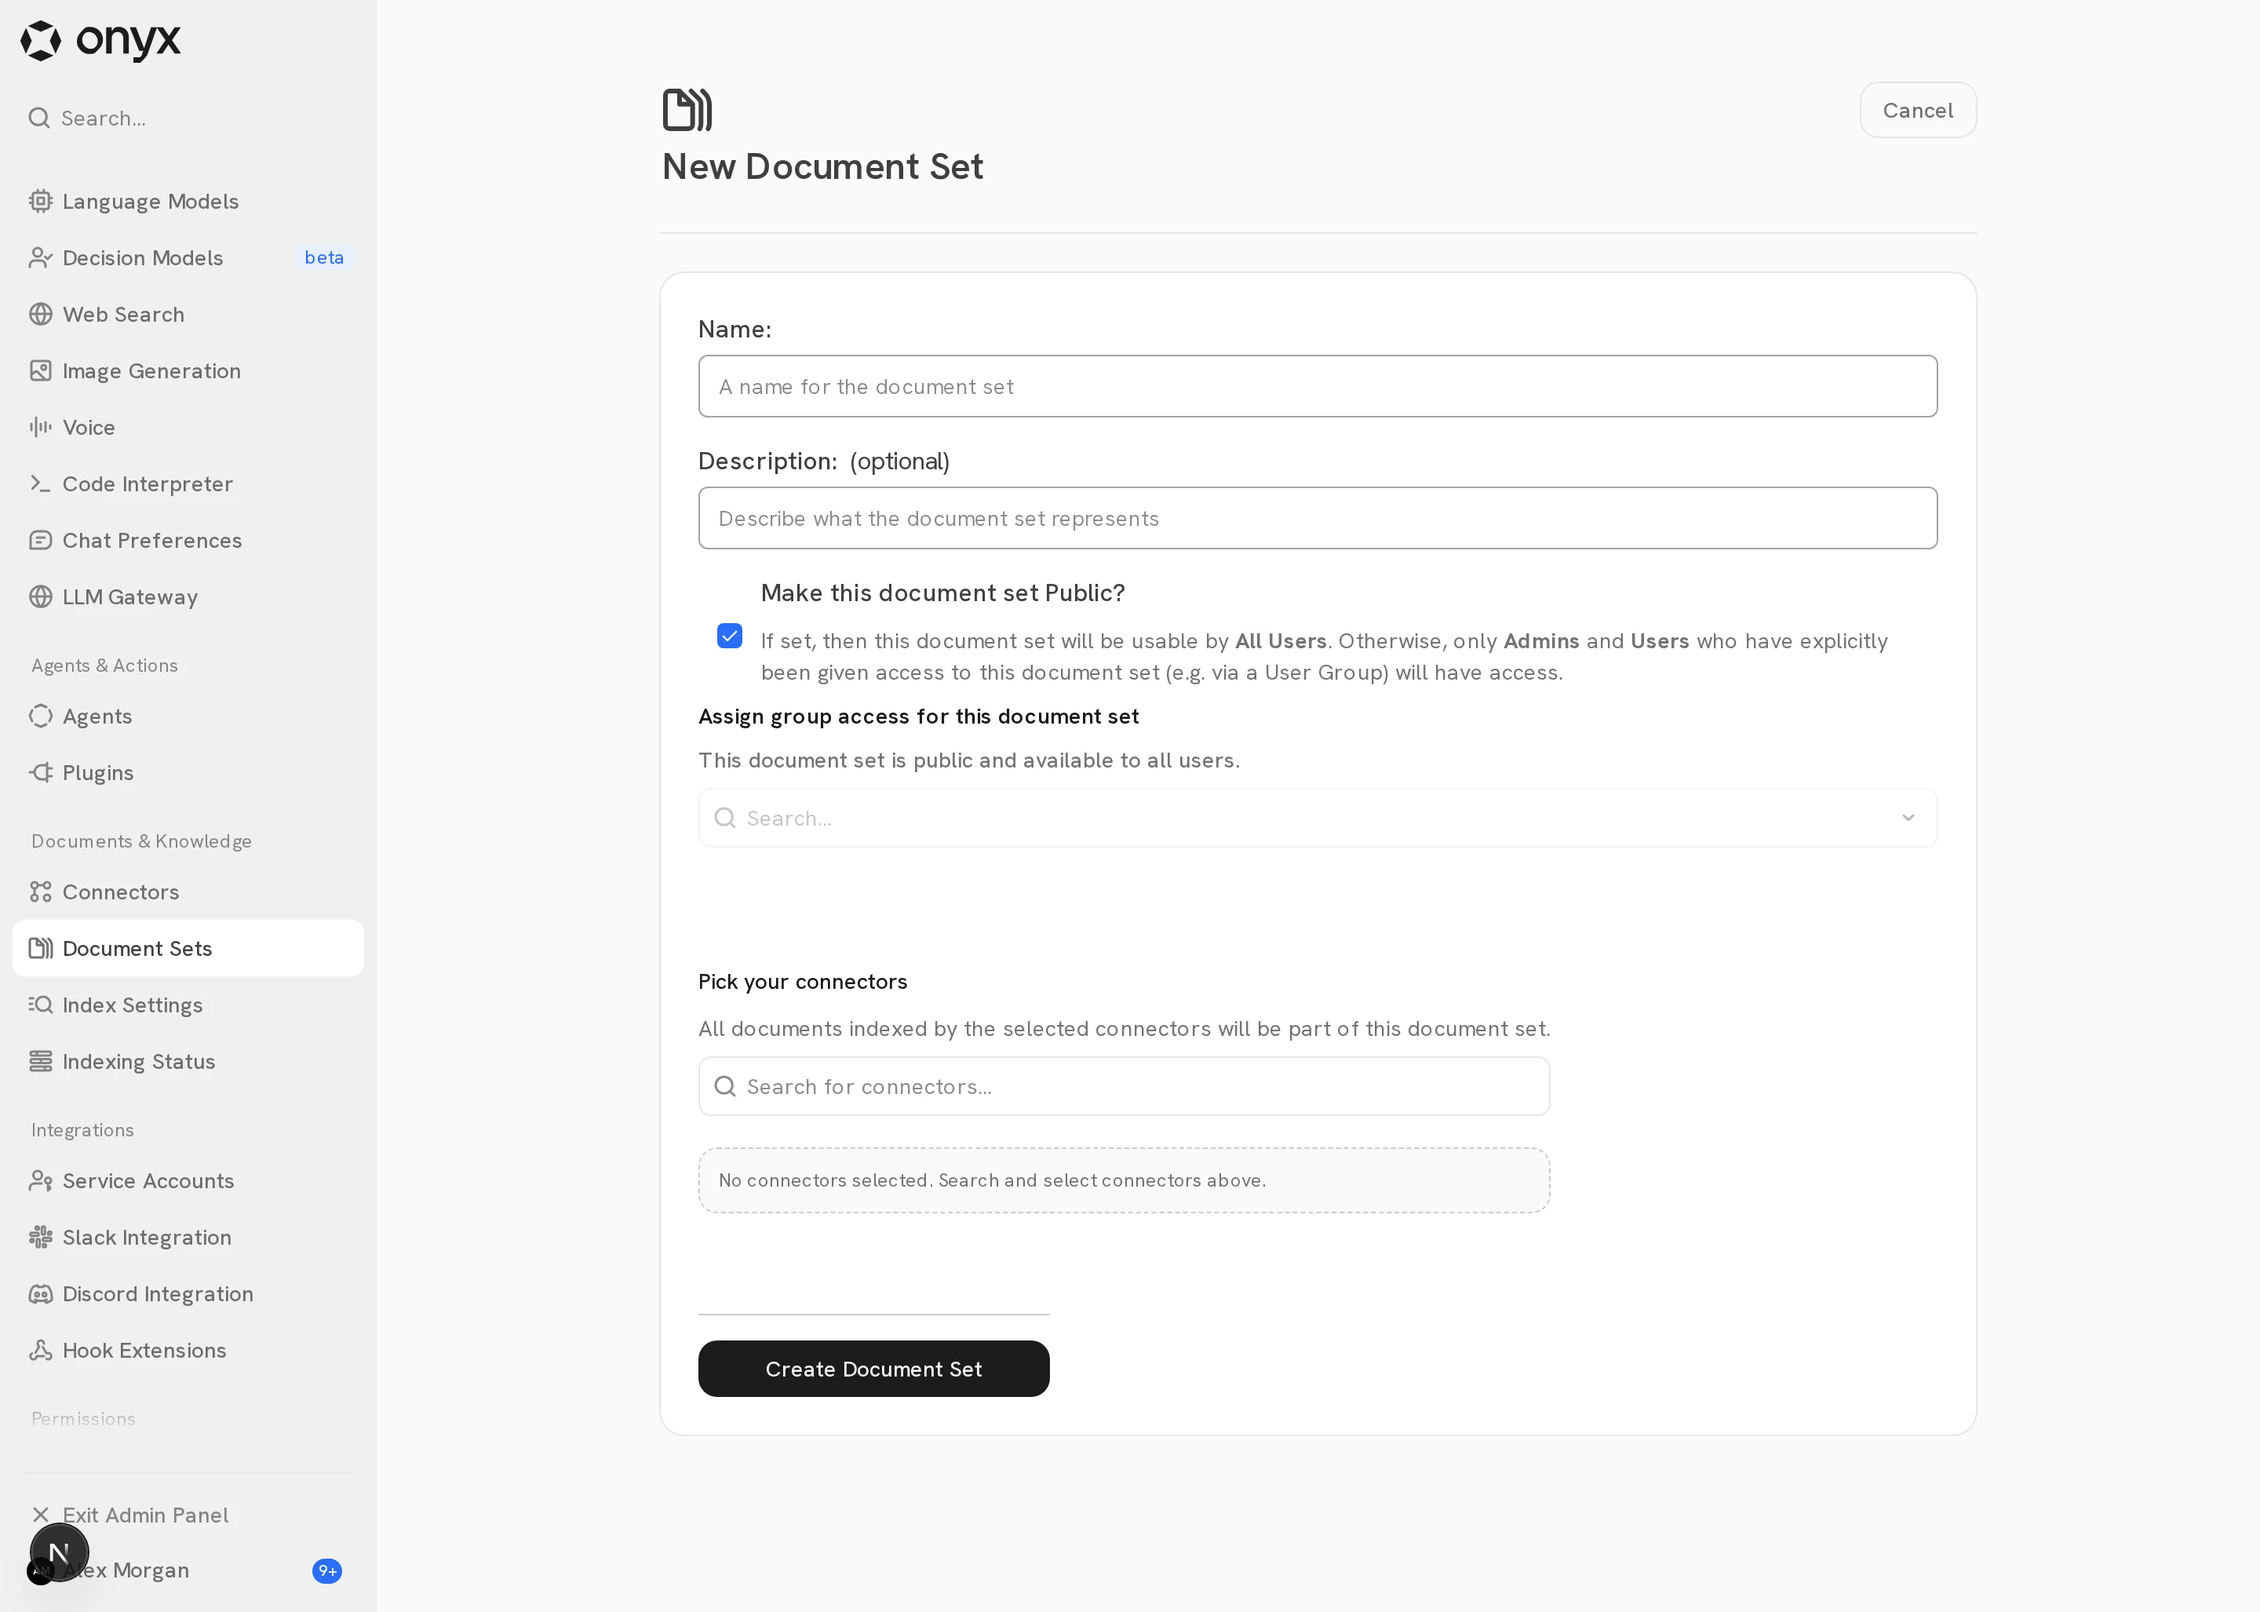
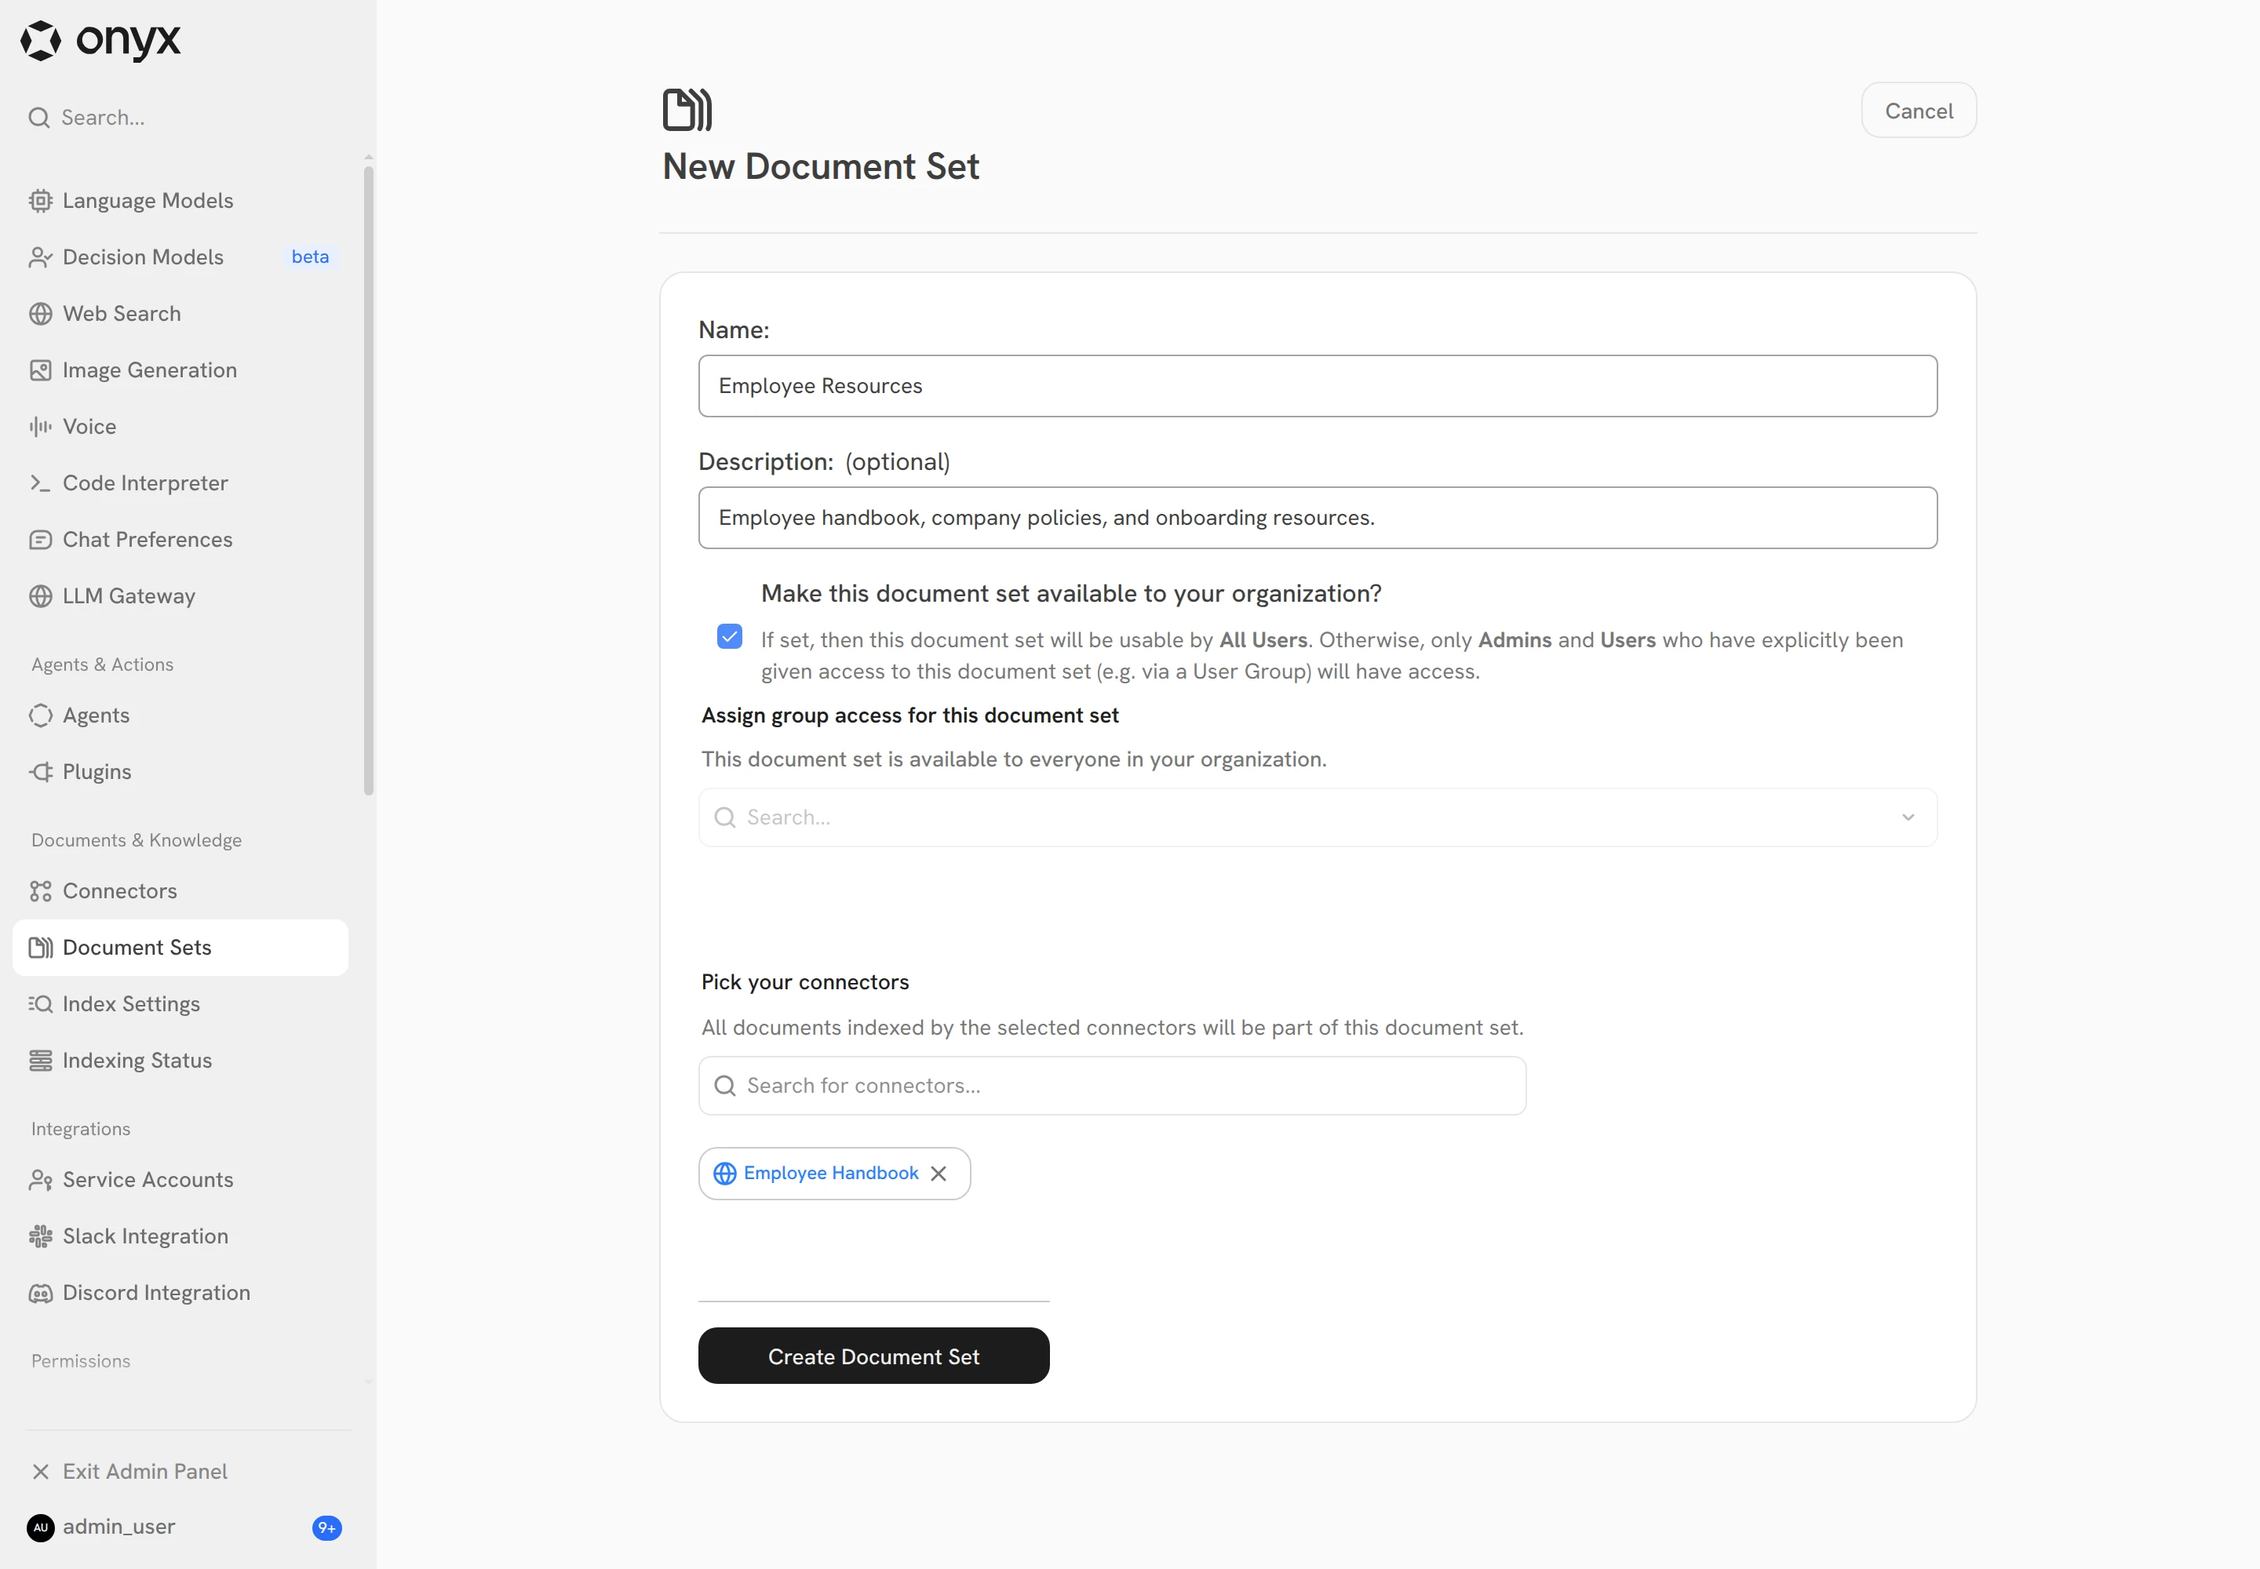
chore(web): say "organization" instead of "public" for org-wide access (#16964)
## Description

"Public" on access settings reads like "public to the internet". These
settings mean "everyone in this Onyx organization", as opposed to
selected user groups. This PR changes only the copy. API fields
(`is_public`, `access_type: public`) and i18n keys do not change.

| Surface | Before | After |
| --- | --- | --- |
| MCP access control option | Public | Organization |
| Document set / connector "Make public" toggle
(`IsPublicGroupSelector`) | Make this {objectName} Public? | Make this
{objectName} available to your organization? |
| Same, groups picker disabled message | …is public and available to all
users. | …is available to everyone in your organization. |
| Agents admin table, document sets table, connector list access |
Public | Organization |
| Document sets table column header | Public | Access |
| Agent viewer modal | Public to your organization | Available to your
organization |
| Connector "Everyone in Your Organization" description | …will be
public to everyone… | …are available to everyone… |
| Slack bot knowledge source | All Public Knowledge / all public
connectors | All Organization-Wide Knowledge / all organization-wide
connectors |
| Prompt shortcuts tooltip, Community downgrade modal, share-agent aria
label | public | organization-wide / your organization |

The new wording matches existing copy: the admin sidebar "Organization"
section and the share modals ("Anyone in your organization").
[…]

diff --git a/web/src/sections/actions/modals/MCPServerDetailsPage.test.tsx b/web/src/sections/actions/modals/MCPServerDetailsPage.test.tsx
@@ -189,7 +189,7 @@ beforeEach(() => {
 
 afterEach(() => jest.restoreAllMocks());
 
-test("Public is the only alternative to groups and clears explicit grants", async () => {
+test("Organization is the only alternative to groups and clears explicit grants", async () => {
   const submit = renderAccess();
   const user = setupUser();
   await user.click(screen.getByRole("combobox", { name: "Access control" }));
@@ -199,7 +199,7 @@ test("Public is the only alternative to groups and clears explicit grants", asyn
   ).not.toBeInTheDocument();
   await user.click(
     screen.getByRole("option", {
-      name: /^Public Anyone in your organization can use this MCP/,
+      name: /^Organization Anyone in your organization can use this MCP/,
     })
   );
   await user.click(screen.getByRole("button", { name: "Save access" }));
@@ -235,7 +235,7 @@ test("scoped managers can select groups only and must choose a group", async () 
   const user = setupUser();
   await user.click(screen.getByRole("combobox", { name: "Access control" }));
   expect(
-    screen.queryByRole("option", { name: /^Public/ })
+    screen.queryByRole("option", { name: /^Organization/ })
   ).not.toBeInTheDocument();
   expect(
     screen.queryByRole("option", { name: /^Private/ })
@@ -782,7 +782,7 @@ describe("inline server configuration", () => {
     { adminCapabilities: [] },
     { adminCapabilities: [Permission.MANAGE_ACTIONS] },
   ])(
-    "read-only configuration loads without global edit permission and preserves Public access: %j",
+    "read-only configuration loads without global edit permission and preserves organization-wide access: %j",
     async ({ adminCapabilities }) => {
       renderDetailsPage({ readOnly: true, permissions: [], adminCapabilities });
       expect(
@@ -797,7 +797,7 @@ describe("inline server configuration", () => {
       ).not.toBeInTheDocument();
       expect(
         screen.getByRole("combobox", { name: "Access control" })
-      ).toHaveValue("Public");
+      ).toHaveValue("Organization");
       expect(
         screen.getByRole("combobox", { name: "Access control" })
       ).toBeDisabled();

diff --git a/web/tests/e2e/admin/permissions/permission_gating.spec.ts b/web/tests/e2e/admin/permissions/permission_gating.spec.ts
@@ -476,7 +476,9 @@ test.describe("Permission gating: MANAGE_DOCUMENT_SETS", () => {
       const publicToggle = page.locator("#checkbox-is_public");
       await expect(publicToggle).toBeAttached({ timeout: 10000 });
       const publicToggleLabel = page
-        .getByText("Make this Document Set Public?", { exact: false })
+        .getByText("Make this document set available to your organization?", {
+          exact: false,
+        })
         .first();
       await expect(publicToggleLabel).toBeVisible({ timeout: 10000 });
 

diff --git a/web/src/sections/actions/modals/MCPPluginSetupModal.test.tsx b/web/src/sections/actions/modals/MCPPluginSetupModal.test.tsx
@@ -923,7 +923,7 @@ test("failed scoped setup retries with the edited draft without creating a parti
   await screen.findByText(copy.publicDetected, {}, { timeout: 3000 });
   const user = setupUser();
   expect(
-    screen.queryByRole("option", { name: /^Public/ })
+    screen.queryByRole("option", { name: /^Organization/ })
   ).not.toBeInTheDocument();
   expect(screen.getByRole("button", { name: copy.continue })).toBeDisabled();
   const groups = screen.getByPlaceholderText("Add user groups");
